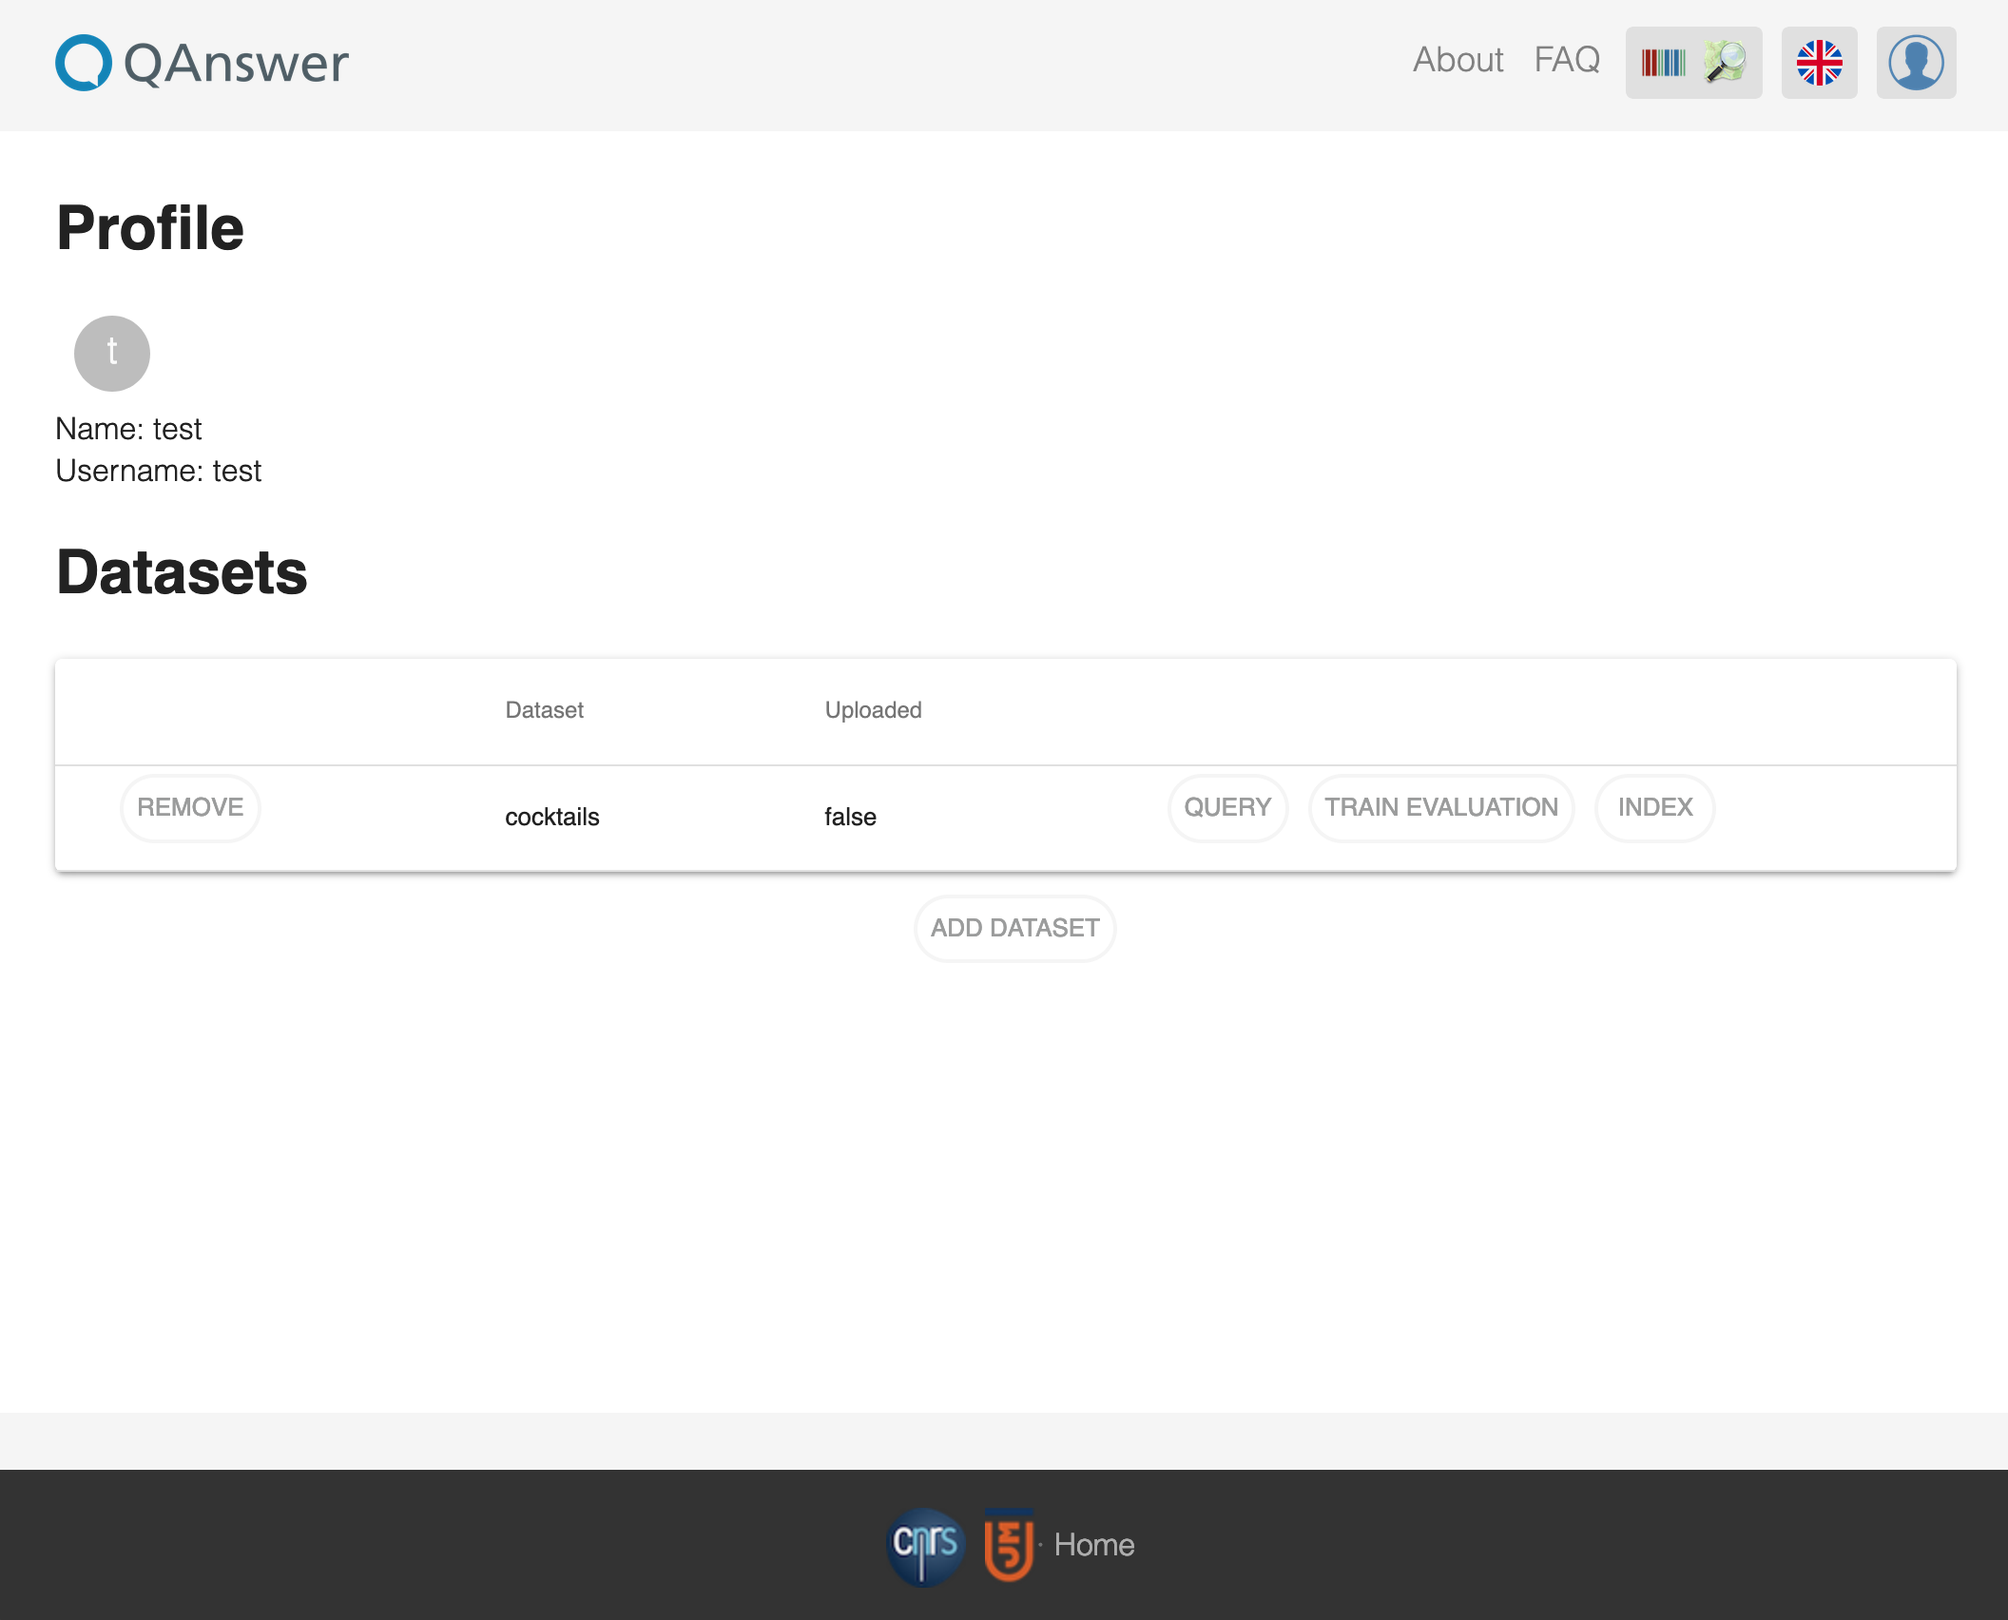
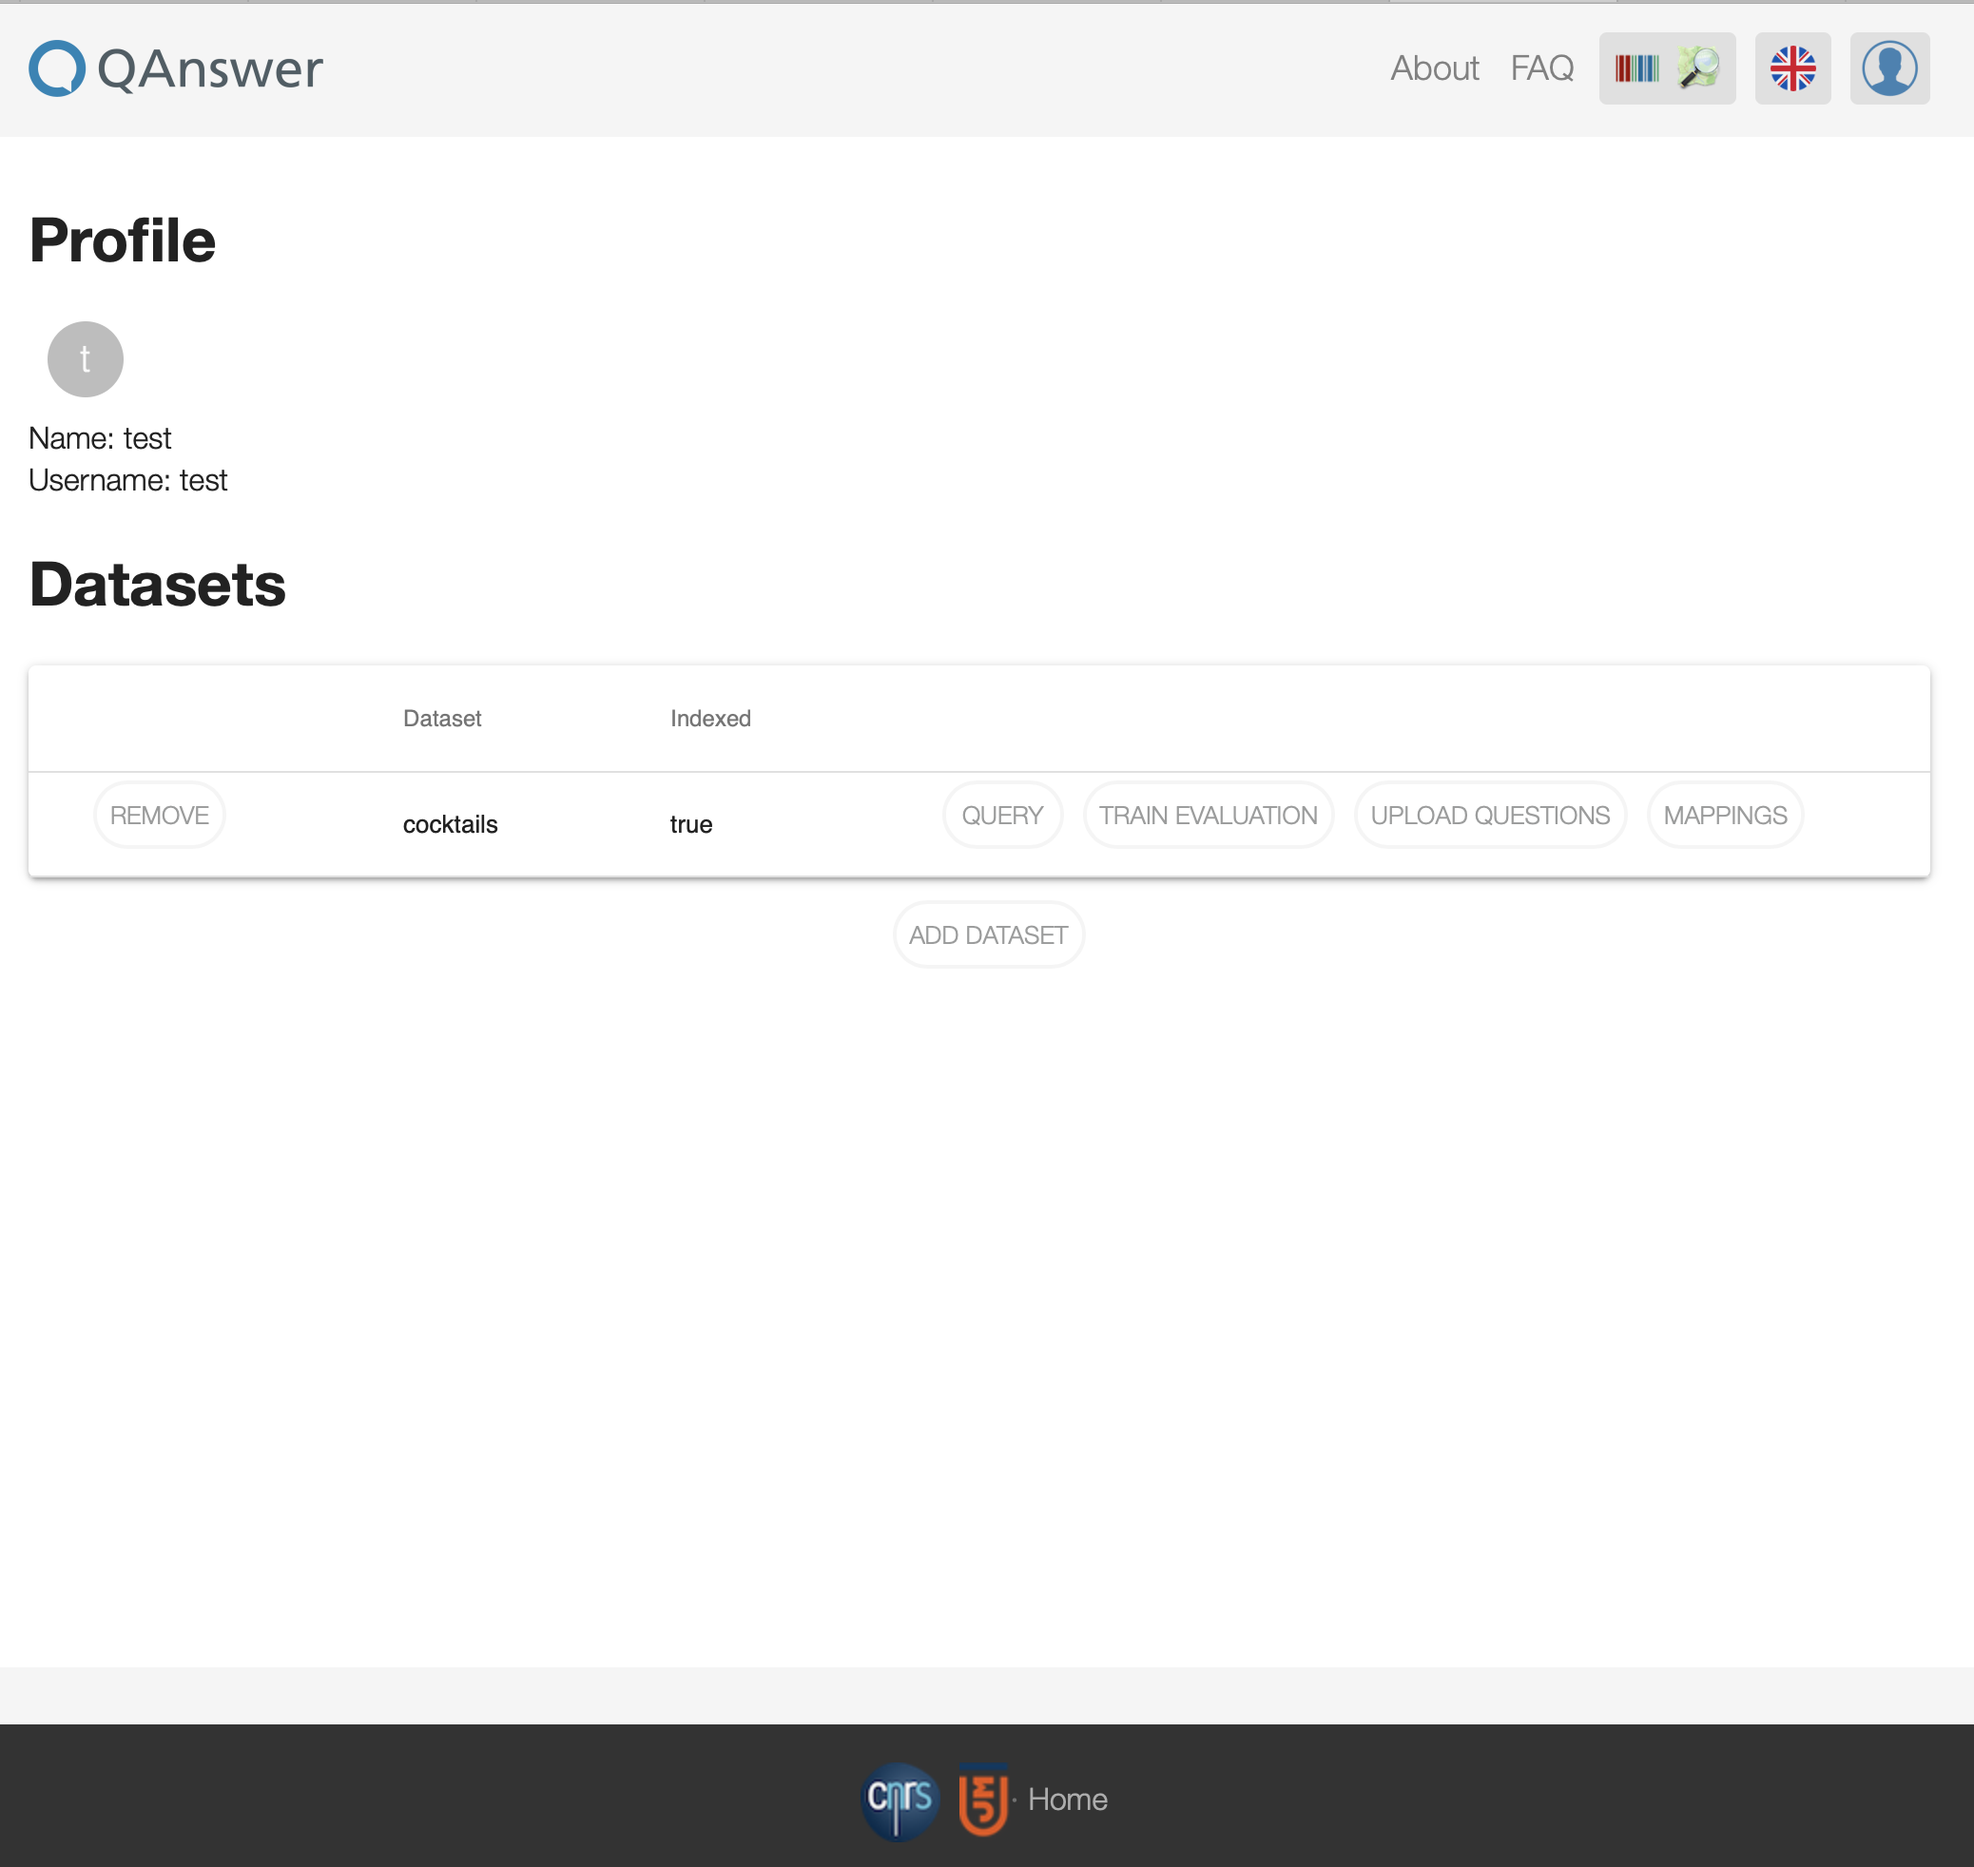
Updated to explain mappings

diff --git a/docs/doc1.6.md b/docs/doc1.6.md
@@ -7,8 +7,7 @@ sidebar_label: Part 6 (Contextual information)
 Up to now the result was always given by the "rdfs:label". But in an RDF dataset there are potentially many contextual information that can be shown like
 descriptions, images, maps and videos. To allow QAnswer to display this contextual information your ontology vocabulary has to be aligned by the one used by
 QAnswer. This is necessary since there are different proposed vocabulary to express this type of information in the Semantic Web Community and no one became
-a standard. QAnswer is using the properties
-used by Wikidata. So let's start.
+a standard. QAnswer is using some common properties. So let's start.
 
 The main properties that can be aligned are listed in [Requirments 3](/docs/req1.3)
 In the case of the cocktail Knowledge Base the following properties can be aligned:
@@ -17,8 +16,40 @@ In the case of the cocktail Knowledge Base the following properties can be align
 2) <http://vocabulary.semantic-web.at/cocktail-ontology/image> to <http://www.wikidata.org/prop/direct/P18>
 3) <http://www.w3.org/2004/02/skos/core#exactMatch> to <http://qanswer.eu/dbpedia>
 
-The cocktail Knowledge Base with where the above URIs are substituted can be downloaded [here](/cocktails_align.nt). The updated file can be uploaded and indexd as
-explained in [Part 3](/docs/doc1.3). With these substitutions we get the following result:
+There are two options to align the properties:
+
+## Option 1
+
+The second option is to align the vocabulary using the mapping tab in the Profile page:
+
+<img src="/img/screenshots/Profile1.png" width="80%">
+
+The interface looks as follows:
+
+<img src="/img/screenshots/Mapping.png" width="80%">
+
+To align the above properties just add the uri:
+
+ http://www.w3.org/2004/02/skos/core#definition
+
+to the Definition list and
+
+http://vocabulary.semantic-web.at/cocktail-ontology/image
+
+to the Image list and click on "Save". The properties are then used to to show the contextual information.
+
+
+
+## Option 2
+
+The first option is to substitute the uris in the original Knowledge Base by the ones supported by QAnswer.
+The cocktail Knowledge Base where the above URIs are substituted can be downloaded [here](/cocktails_align.nt). The updated file can be uploaded and indexd as
+explained in [Part 3](/docs/doc1.3).
+
+
+## Result
+
+With these substitutions we get the following result:
 
 <img src="/img/screenshots/Result_Final0.png" width="80%">
 

diff --git a/docs/req1.3.md b/docs/req1.3.md
@@ -4,9 +4,11 @@ title: Requirement 3 (Optional)
 sidebar_label: Requirement 3 (Optional)
 ---
 
-This requirement is only needed when one wants to display contextual information. To allow QAnswer to display contextual information like images, descriptions, videos, links and maps the ontology vocabulary of the KG has to be aligned to the one used by QAnswer. This is necessary since there is there are multiple vocabulary terms to express this type of information in the Semantic Web Community. QAnswer is using the properties used by Wikidata.
+This requirement is only needed when one wants to display contextual information. To allow QAnswer to display contextual information like labels, images, descriptions, videos, links and maps the ontology vocabulary of the KG has to be aligned to the one used by QAnswer. This is necessary since there is there are multiple vocabulary terms to express this type of information in the Semantic Web Community. QAnswer is using the properties used by Wikidata.
 The main properties to align are the following:
 
+- <http://www.w3.org/2000/01/rdf-schema#label>, <http://www.w3.org/2004/02/skos/core#prefLabel>, <http://purl.org/dc/terms/title>, <http://xmlns.com/foaf/0.1/givenName>, <http://purl.org/dc/elements/1.1/title>
+to visualize a lable. If no label is available the URI is shown
 - <http://schema.org/description>, to visualize a description
 - <http://www.wikidata.org/prop/direct/P18>, to visualize an image. The object is expected to be the link to an online available image file.
 - <http://www.wikidata.org/prop/direct/P625> to visualize the geographic coordinates. The object is expected to be a literal with datatype <http://www.opengis.net/ont/geosparql#wktLiteral>

diff --git a/docs/doc1.4.md b/docs/doc1.4.md
@@ -17,7 +17,7 @@ and
 
 ![Result_Parial1](/img/screenshots/Result_Partial1.png)
 
-Note that for now there is no contextual information attached to the answers, like descriptions, external links, maps, images and videos. How this can be achieved
+Note that for now there is no contextual information attached to the answers, like labels, descriptions, external links, maps, images and videos. How this can be achieved
 will be shown in [Part 6](/docs/doc1.6).
 
 The dataset contains some popular cocktails like: Margerita, Sex on the Beach, Long Island Iced Tea and Grasshopper.
